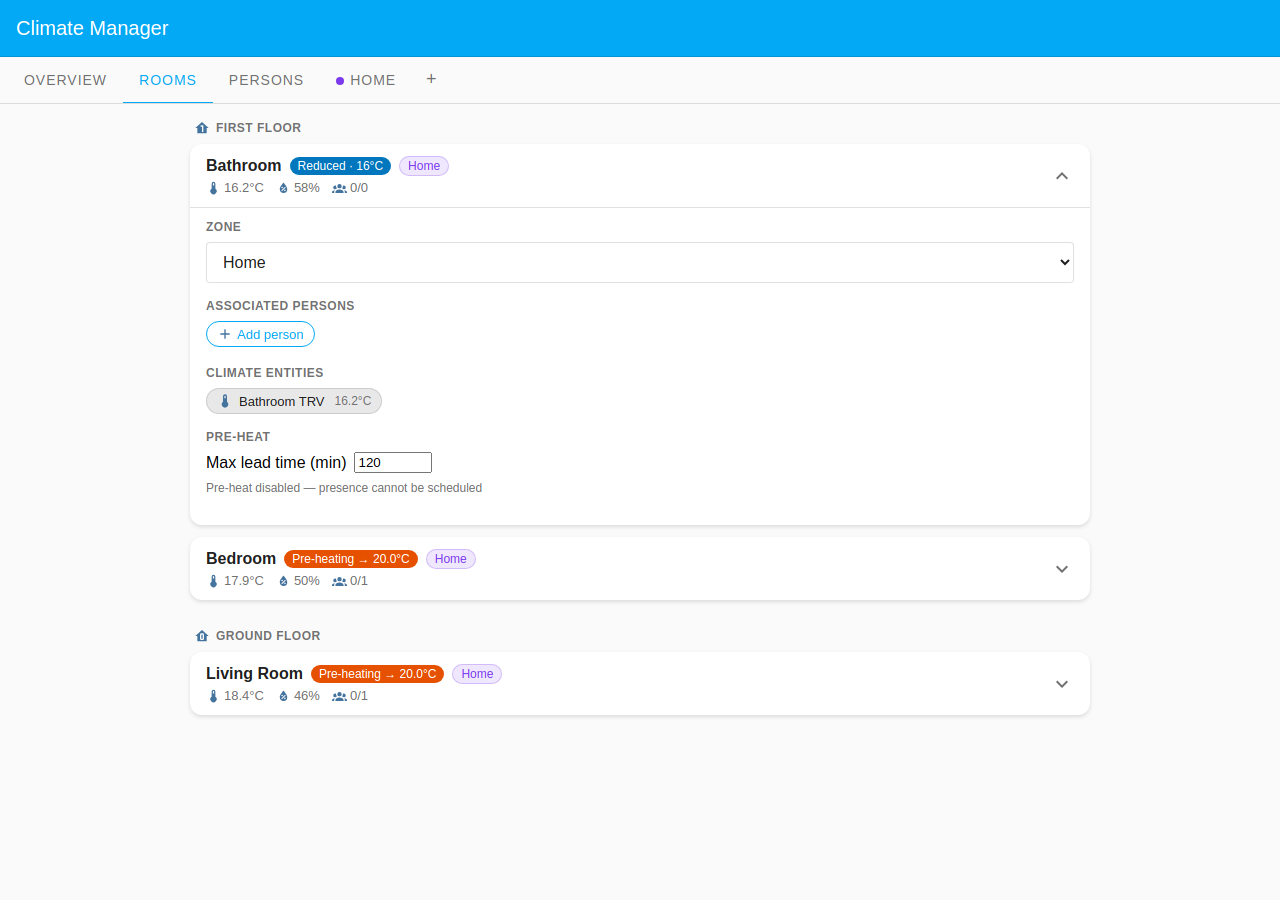
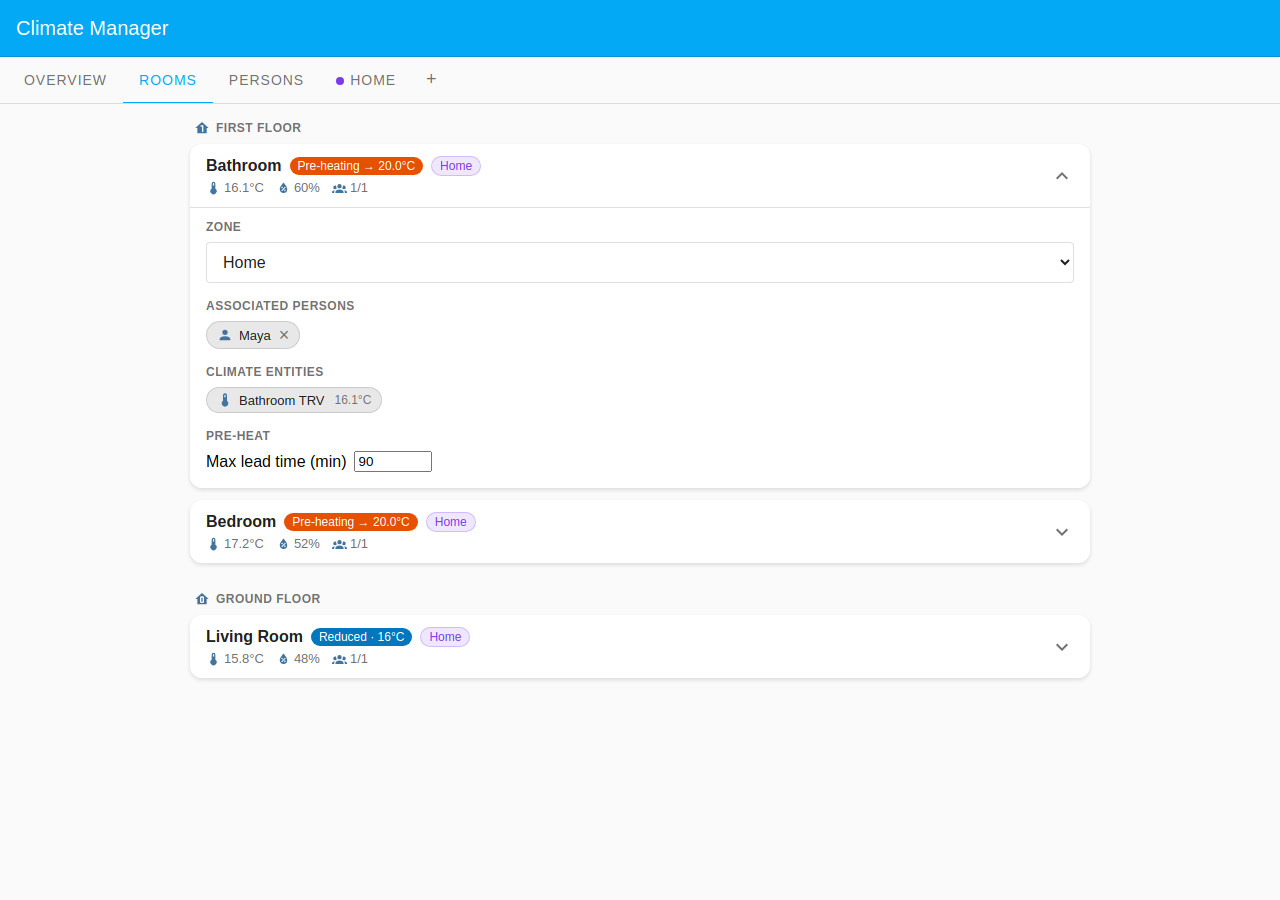
docs(use-cases): correct predictive-preheat to morning framing
- Scenario reframed as MORNING pre-heat: rooms warm before the 06:30
  wake-up step, not before an evening return
- Maya present overnight (asleep = present); absent only 08:30–17:30
- Weekday program has clear 06:30 Normal step to pre-heat toward
- bedroom preheat_max_lead_minutes: 60; bathroom: 90; living_room: none
- Maya assigned to all three rooms (presences zone needs assigned person)
- Remove wakeup_advance_minutes (calendar knob, not for scheduled mode)
- STATUS snapshot = ~05:50 weekday: Maya present, bedroom + bathroom
  preheat_active:true; living_room no preheat yet
- Regenerate overview/rooms/persons screenshots

Changed region(s): [[0.1562, 0.3422, 0.4062, 0.7778], [0.2188, 0.1556, 0.375, 0.2178]]

diff --git a/docs/use-cases/predictive-preheat/harness.html b/docs/use-cases/predictive-preheat/harness.html
@@ -150,19 +150,21 @@
 
 <!-- Mock hass — runs after panel.js defines climate-manager-panel -->
 <script type="module">
-  // predictive-preheat — Maya's home warms rooms BEFORE she returns.
-  // The Default Zone "Home" has preheat_enabled. Maya works office hours; her
-  // schedule gives the coordinator a predicted return (17:30) and
-  // wakeup_advance_minutes lets heating start early so the rooms are at
-  // temperature on arrival. The Bathroom has no person assigned, so its
-  // pre-heat is suppressed (presence-only suppression).
+  // predictive-preheat — Maya's bedroom and bathroom warm up BEFORE her
+  // 06:30 wake-up step so she gets out of bed into already-warm rooms.
+  // The Default Zone "Home" is time_program_presences with preheat_enabled.
+  // Maya is present overnight (asleep = present), absent 08:30–17:30 on
+  // weekdays. Pre-heat fires ahead of the 06:30 Normal period using each
+  // room's preheat_max_lead_minutes. The living_room has no lead time set so
+  // it waits for the period change. A room with no assigned person is set
+  // back, not pre-heated.
 
   const weekdayProg = [
     { start: '00:00', mode: 'frost_protection' },
     { start: '06:30', mode: 'normal' },
-    { start: '08:30', mode: 'reduced' },
+    { start: '09:00', mode: 'reduced' },
     { start: '17:00', mode: 'normal' },
-    { start: '22:00', mode: 'frost_protection' },
+    { start: '22:30', mode: 'frost_protection' },
   ];
   const weekendProg = [
     { start: '00:00', mode: 'frost_protection' },
@@ -178,8 +180,8 @@
 
   const homeProg = mkProg(weekdayProg, weekendProg);
 
-  // Maya: present overnight/mornings, away at the office 08:30–17:30,
-  // present again every evening; home all weekend.
+  // Maya: present overnight (asleep = present), absent 08:30–17:30
+  // weekdays, present again from 17:30; home all weekend.
   const mayaWD = [
     { start: '00:00', state: 'present' },
     { start: '08:30', state: 'absent' },
@@ -193,7 +195,8 @@
     period_temperatures: {
       frost_protection: 7, reduced: 16, normal: 20, comfort: 22,
     },
-    // Default Zone with pre-heat enabled (Phase 12, GAP-01).
+    // Default Zone with pre-heat enabled — rooms heat early ahead of the
+    // next warmer period when Maya is present (including overnight).
     default_zone: {
       name: 'Home',
       mode: 'time_program_presences',
@@ -202,57 +205,49 @@
     },
     zones: {},
     // Per-room max lead time the coordinator may use to reach target early.
+    // bathroom has a longer lead (tiles hold heat); living_room has none.
     rooms: {
-      living_room: { preheat_max_lead_minutes: 90 },
-      bedroom:     { preheat_max_lead_minutes: 120 },
-      bathroom:    {},
+      bedroom:     { preheat_max_lead_minutes: 60 },
+      bathroom:    { preheat_max_lead_minutes: 90 },
+      living_room: {},
     },
     persons: {
       'person.maya': {
         mode: 'scheduled',
         schedule_type: 'single',
-        room_ids: ['living_room', 'bedroom'],
+        // Maya assigned to all three rooms — all are in a presences zone
+        // so each room must have an assigned person to heat at all.
+        room_ids: ['bedroom', 'bathroom', 'living_room'],
         schedule: mkProg(mayaWD, mayaWE),
-        // Start heating 45 min before Maya's predicted return.
-        wakeup_advance_minutes: 45,
+        // No wakeup_advance_minutes — pre-heat is driven by the zone
+        // preheat_enabled + per-room preheat_max_lead_minutes.
       },
     },
     climate_entities: [
-      'climate.living_room_trv',
       'climate.bedroom_trv',
       'climate.bathroom_trv',
+      'climate.living_room_trv',
     ],
   };
 
-  // Snapshot: a weekday ~16:50 — Maya still out, pre-heat running so her two
-  // rooms reach 20°C before her 17:30 return. The bathroom (no schedule) is
-  // pre-heat suppressed.
+  // Snapshot: early morning (~05:50 weekday). Maya is home asleep → present.
+  // Bedroom and bathroom are still in frost_protection period but preheat
+  // is active, heating toward the 06:30 Normal step. Living room has no
+  // lead time so it waits; active_period reduced (no preheat yet).
   const STATUS = {
     zones: {
-      default: { mode: 'time_program_presences', active_period: 'normal' },
+      default: { mode: 'time_program_presences', active_period: 'reduced' },
     },
-    present_persons: [],
+    present_persons: ['person.maya'],
     rooms_status: [
-      {
-        area_id: 'living_room',
-        name: 'Living Room',
-        entity_ids: ['climate.living_room_trv'],
-        temperature: 18.4,
-        humidity: 46,
-        active_period: 'normal',
-        present_person_count: 0,
-        has_trv: true,
-        preheat_active: true,
-        preheat_target: 20,
-      },
       {
         area_id: 'bedroom',
         name: 'Bedroom',
         entity_ids: ['climate.bedroom_trv'],
-        temperature: 17.9,
-        humidity: 50,
-        active_period: 'normal',
-        present_person_count: 0,
+        temperature: 17.2,
+        humidity: 52,
+        active_period: 'reduced',
+        present_person_count: 1,
         has_trv: true,
         preheat_active: true,
         preheat_target: 20,
@@ -261,12 +256,23 @@
         area_id: 'bathroom',
         name: 'Bathroom',
         entity_ids: ['climate.bathroom_trv'],
-        temperature: 16.2,
-        humidity: 58,
+        temperature: 16.1,
+        humidity: 60,
         active_period: 'reduced',
-        present_person_count: 0,
+        present_person_count: 1,
         has_trv: true,
-        preheat_suppressed: true,
+        preheat_active: true,
+        preheat_target: 20,
+      },
+      {
+        area_id: 'living_room',
+        name: 'Living Room',
+        entity_ids: ['climate.living_room_trv'],
+        temperature: 15.8,
+        humidity: 48,
+        active_period: 'reduced',
+        present_person_count: 1,
+        has_trv: true,
       },
     ],
   };
@@ -286,19 +292,11 @@
       },
     },
     states: {
-      'climate.living_room_trv': {
-        state: 'heat',
-        attributes: {
-          friendly_name: 'Living Room TRV',
-          current_temperature: 18.4,
-          temperature: 20,
-        },
-      },
       'climate.bedroom_trv': {
         state: 'heat',
         attributes: {
           friendly_name: 'Bedroom TRV',
-          current_temperature: 17.9,
+          current_temperature: 17.2,
           temperature: 20,
         },
       },
@@ -306,12 +304,20 @@
         state: 'heat',
         attributes: {
           friendly_name: 'Bathroom TRV',
-          current_temperature: 16.2,
+          current_temperature: 16.1,
+          temperature: 20,
+        },
+      },
+      'climate.living_room_trv': {
+        state: 'heat',
+        attributes: {
+          friendly_name: 'Living Room TRV',
+          current_temperature: 15.8,
           temperature: 16,
         },
       },
       'person.maya': {
-        state: 'not_home',
+        state: 'home',
         attributes: { friendly_name: 'Maya' },
       },
     },

diff --git a/docs/use-cases/predictive-preheat/README.md b/docs/use-cases/predictive-preheat/README.md
@@ -1,47 +1,54 @@
 # Maya — Predictive Pre-heat
 
-Maya works standard office hours and wants her home to be warm the moment she
-walks in, not to _start_ heating when she arrives. With **pre-heat** enabled on
-her zone, the coordinator looks ahead to her scheduled return and begins heating
-early — using each room's allowed lead time — so the rooms reach target
-temperature right as she gets home.
+Maya wants her bedroom and bathroom to be warm when she wakes up, not to _start_
+heating when she gets out of bed. With **pre-heat** enabled on the Home zone,
+the coordinator looks ahead to the 06:30 Normal period and begins heating early
+— using each room's allowed lead time — so the rooms reach target temperature
+right as the morning period begins. Maya is home asleep overnight and that
+counts as **present**, so pre-heat can run ahead of the wake-up step.
 
 ## Household layout
 
-| Room        | Zone                | Floor        | Heats when                              |
-| ----------- | ------------------- | ------------ | --------------------------------------- |
-| Living Room | Home (Default Zone) | Ground Floor | Time program + pre-heat before Maya     |
-| Bedroom     | Home (Default Zone) | First Floor  | Time program + pre-heat before Maya     |
-| Bathroom    | Home (Default Zone) | First Floor  | Time program only (pre-heat suppressed) |
+| Room        | Zone                | Floor        | Heats when                             |
+| ----------- | ------------------- | ------------ | -------------------------------------- |
+| Bedroom     | Home (Default Zone) | First Floor  | Time program + pre-heat before wake-up |
+| Bathroom    | Home (Default Zone) | First Floor  | Time program + pre-heat before wake-up |
+| Living Room | Home (Default Zone) | Ground Floor | Time program (no pre-heat lead)        |
 
 The Default Zone **Home** uses `time_program_presences` and has
-`preheat_enabled: true`, so any room driven by a person's schedule can be
-pre-heated ahead of their return.
+`preheat_enabled: true`. A room must have an assigned person in a presences zone
+to be pre-heated; a room with no assigned person would be set back, not
+pre-heated.
 
 ## Presence configuration
 
-Maya uses `mode: 'scheduled'` (single week). Her schedule gives the coordinator
-the predicted arrival that pre-heat plans against.
+Maya uses `mode: 'scheduled'` (single week).
 
 | Day       | Present                              | Away          |
 | --------- | ------------------------------------ | ------------- |
 | Mon–Fri   | Overnight, before 08:30, after 17:30 | 08:30 – 17:30 |
 | Sat / Sun | All day                              | —             |
 
+Asleep at home overnight is **present** — absence is only for the hours Maya is
+actually out of the house. Pre-heat fires at ~05:50 on weekday mornings (up to
+60–90 minutes ahead of 06:30) while Maya is home asleep.
+
 Pre-heat tuning:
 
-- **`wakeup_advance_minutes: 45`** on Maya — start heating up to 45 minutes
-  before her predicted 17:30 return.
-- **`preheat_max_lead_minutes`** per room — Living Room 90 min, Bedroom 120 min:
-  the maximum head-start the coordinator may take for that room.
+- **`preheat_max_lead_minutes`** per room — Bedroom 60 min, Bathroom 90 min: the
+  maximum head-start the coordinator may take for that room ahead of the next
+  warmer period.
+- Pre-heat is driven by the zone `preheat_enabled` flag and per-room lead time.
+  There is no `wakeup_advance_minutes` on Maya's config — that knob is for
+  calendar-mode persons only.
 
 ## Rooms driven by Maya
 
-`room_ids: ['living_room', 'bedroom']` — only these two rooms react to Maya's
-presence and are pre-heated for her arrival. The **Bathroom** has no person
-assigned, so even though the zone enables pre-heat the bathroom shows
-`preheat_suppressed` — there is no schedule to predict, so it simply follows the
-time program.
+`room_ids: ['bedroom', 'bathroom', 'living_room']` — all three rooms are in the
+Home zone (`time_program_presences`), so each must have an assigned person or it
+would never heat to its scheduled period. The Living Room has no
+`preheat_max_lead_minutes`, so it starts heating only when the 06:30 period
+arrives; it does not get an early start.
 
 ## Screenshots
 
@@ -49,21 +56,23 @@ time program.
 
 ![Overview](screenshots/overview.png)
 
-Captured late on a weekday afternoon: Maya is still out (no one present) while
-the system is already pre-heating toward her return.
+Captured at ~05:50 on a weekday morning: Maya is home asleep (present), the
+system is already pre-heating the bedroom and bathroom toward the 06:30 Normal
+step.
 
 ### Rooms tab
 
 ![Rooms](screenshots/rooms.png)
 
-The expanded Living Room card shows the **Pre-heating → 20.0 °C** badge and the
-pre-heat section with its max-lead setting. The Bathroom card shows the
-suppressed state (pre-heat enabled on the zone but no schedule to act on).
+The expanded Bedroom card shows the **Pre-heating → 20.0 °C** badge and its
+60-minute max lead setting. The Bathroom card likewise shows pre-heat active
+with its 90-minute lead. The Living Room card is in the overnight reduced period
+with no pre-heat badge.
 
 ### Persons tab — Maya card expanded
 
 ![Persons](screenshots/persons.png)
 
-Maya's card shows her weekday schedule, the **pre-heat advance** field (45
-minutes), and her room chips — Living Room (Ground Floor) and Bedroom (First
-Floor) — the rooms her presence pre-heats.
+Maya's card shows her weekday schedule, and her three room chips — Bedroom,
+Bathroom (First Floor), and Living Room (Ground Floor) — the rooms her presence
+gates in the Home zone.